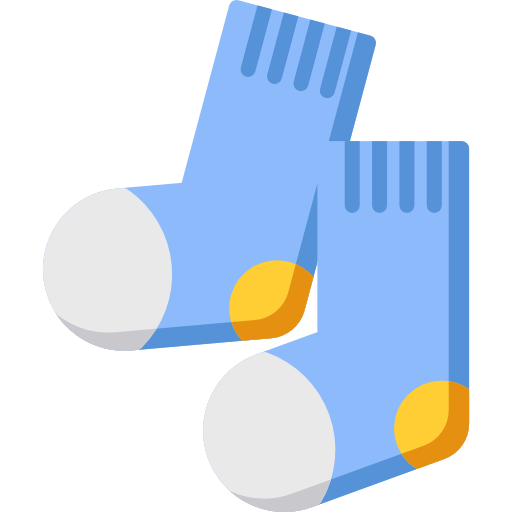
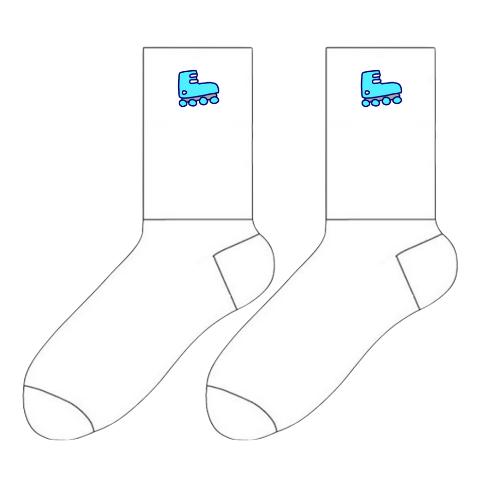
Fix: updated race guide, sponsors and FAQ

diff --git a/src/components/sponsor.vue b/src/components/sponsor.vue
@@ -6,14 +6,14 @@ import Autoplay from 'embla-carousel-autoplay'
 const title = 'SPONSORS'
 const subtitle = 'TO BE REVEALED'
 const images = ref([
-  { src: '/sponsor1.webp', alt: 'Sponsor 1 Logo' },
-  { src: '/sponsor2.webp', alt: 'Sponsor 2 Logo' },
-  { src: '/sponsor3.png', alt: 'Sponsor 3 Logo' },
-  { src: '/sponsor4.webp', alt: 'Sponsor 4 Logo' },
-  { src: '/sponsor5.webp', alt: 'Sponsor 5 Logo' },
-  { src: '/sponsor6.png', alt: 'Sponsor 6 Logo' },
-  { src: '/sponsor7.webp', alt: 'Sponsor 7 Logo' },
-  { src: '/sponsor8.webp', alt: 'Sponsor 8 Logo' },
+  { src: '/sponsor1.png', alt: '100 Plus Logo' },
+  { src: '/sponsor2.png', alt: 'Biore Logo' },
+  { src: '/sponsor3.avif', alt: 'Go Rental Logo' },
+  // { src: '/sponsor4.webp', alt: 'Sunpride Logo' },
+  { src: '/sponsor5.png', alt: 'Clear Vision Logo' },
+  { src: '/sponsor6.webp', alt: 'SMU Logo' },
+  { src: '/sponsor7.png', alt: 'Food Kingdom Group Logo' },
+  { src: '/sponsor8.webp', alt: ' Advagen' },
 ])
 
 // --- Embla Carousel Setup ---
@@ -34,13 +34,26 @@ const [emblaRef] = emblaCarouselVue(
   <div class="hero bg-base-100 min-h-[50vh] p-5">
     <div class="hero-content text-center w-full px-4">
       <div class="flex flex-col items-center w-full">
-        <h1 class="text-4xl md:text-5xl font-bold font-varsity text-left mb-20">{{ title }}</h1>
+        <h1 class="text-4xl md:text-5xl font-varsity text-left mb-20">{{ title }}</h1>
         <!-- Embla Viewport: ref and overflow hidden required -->
-        <h1
-          class="text-3xl md:text-4xl lg:text-5xl pl-5 pr-5 pt-2 pb-2 mb-6 md:mb-10 font-bold font-varsity bg-[#34acc0] text-[#ffffff]"
-        >
-          {{ subtitle }}
-        </h1>
+        <div class="embla" ref="emblaRef">
+          <!-- Embla Container: flex required -->
+          <div class="embla__container">
+            <!-- Loop through images -->
+            <div class="embla__slide" v-for="(image, index) in images" :key="index">
+              <!-- Slide Content Wrapper (for potential gap/padding) -->
+              <div class="embla__slide__content mx-4 flex items-center justify-center h-full">
+                <!-- Added margin for gap -->
+                <img
+                  :src="image.src"
+                  :alt="image.alt"
+                  class="block max-h-full w-40 object-contain"
+                />
+                <!-- Adjust height (h-48) and styling as needed -->
+              </div>
+            </div>
+          </div>
+        </div>
       </div>
     </div>
   </div>

diff --git a/src/components/faq.vue b/src/components/faq.vue
@@ -11,10 +11,12 @@ export default {
         {
           question: 'What is the minimum age to participate in Skatathon 2025?',
           answer: `
-        • 42km &amp; 21km – Participants must be 12 years old and above<br>
+          All ages are welcome to participate! <br><br>
+          To ensure a safe and enjoyable experience for everyone, we recommend the following minimum ages for each category: <br>
+          • 42km &amp; 21km – Participants must be 12 years old and above<br>
         • 10km – Participants must be 8 years old and above<br>
         • 4km – Open to all ages<br><br>
-        For participants 6 years old and below, we highly encourage a parent or guardian to accompany them throughout the race for safety reasons. Parents are advised to assess their child’s skating ability and endurance before registering.
+        We strongly encourage parents and guardians to consider their child’s skating ability and endurance before registering.
       `,
         },
         {

diff --git a/src/components/entitlement.vue b/src/components/entitlement.vue
@@ -55,11 +55,11 @@ export default {
       title: 'RACE ENTITLEMENTS',
       subtitle: 'TO BE REVEALED',
       entitlements: [
-        { title: 'Tote Bag', src: '/totebag.png', alt: 'Race tote bag' },
+        { title: 'Drawstring Bag', src: '/drawstringbag.png', alt: 'Race draw string bag' },
         { title: 'Skatathon Tee', src: '/tee.png', alt: 'Skatathon tee' },
-        { title: 'Keychain', src: '/keychain.png', alt: 'Skatathon keychain' },
+        { title: 'Consumables', src: '/consumables.png', alt: 'Consumables' },
         { title: 'Race Bib', src: '/racebib.png', alt: 'Race bib' },
-        { title: 'Socks', src: '/socks.png', alt: 'Socks' },
+        { title: 'Skatathon Socks', src: '/socks.png', alt: 'Socks' },
         { title: 'Finisher Medal', src: '/medal.png', alt: 'Finisher Medal' },
       ],
     }

diff --git a/src/components/guide.vue b/src/components/guide.vue
@@ -11,7 +11,7 @@ export default {
   },
    methods: {
     openLink() {
-      window.open('https://www.dropbox.com/scl/fi/vm29a4t4e24khdzp2vgit/SMU-Skatathon-2025-Race-E-Guide.pdf?rlkey=0ijaxrg6pz6hmzsgzddd0hc2h&st=lrlp4uj4&dl=0', '_blank');
+      window.open('https://www.dropbox.com/scl/fi/9rvxdujscvijdfd6uzpe0/SMU-Skatathon-2025-Race-E-Guide.pdf?rlkey=r0x7p3dixv89mfx1j55r5qf13&st=4ozguc1y&dl=0', '_blank');
     }
   }
 }
